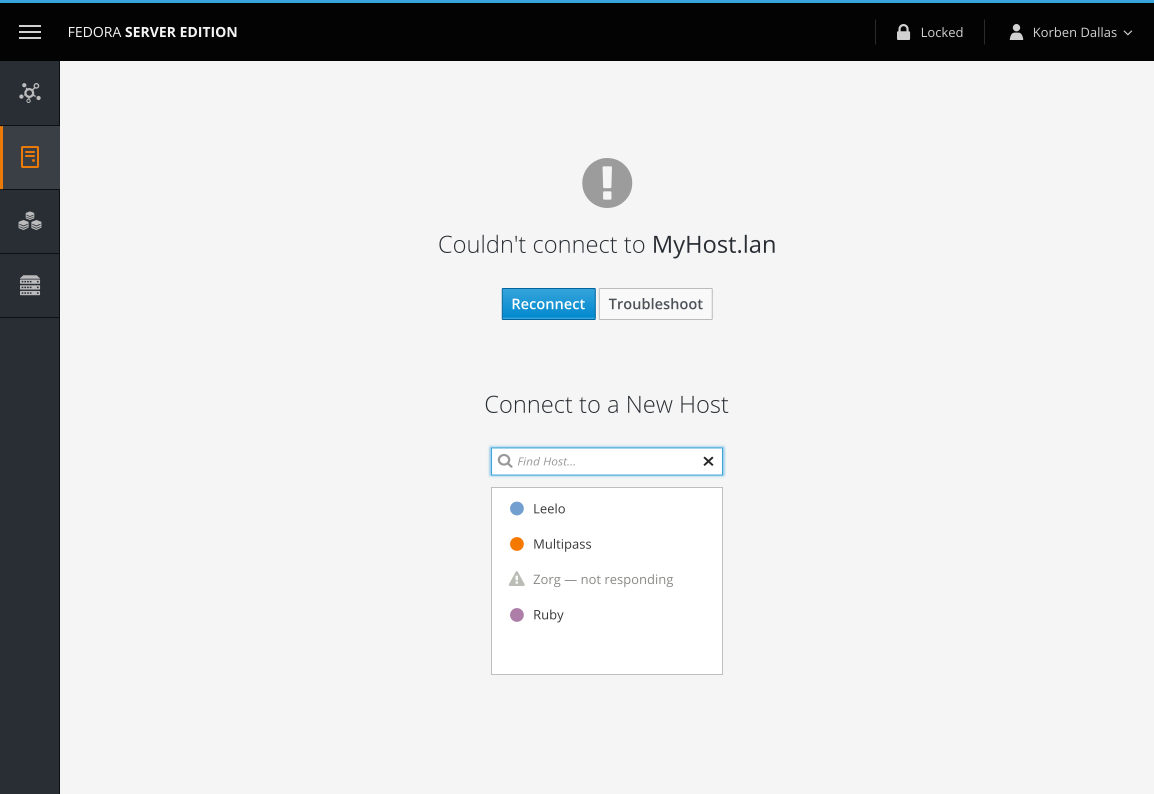
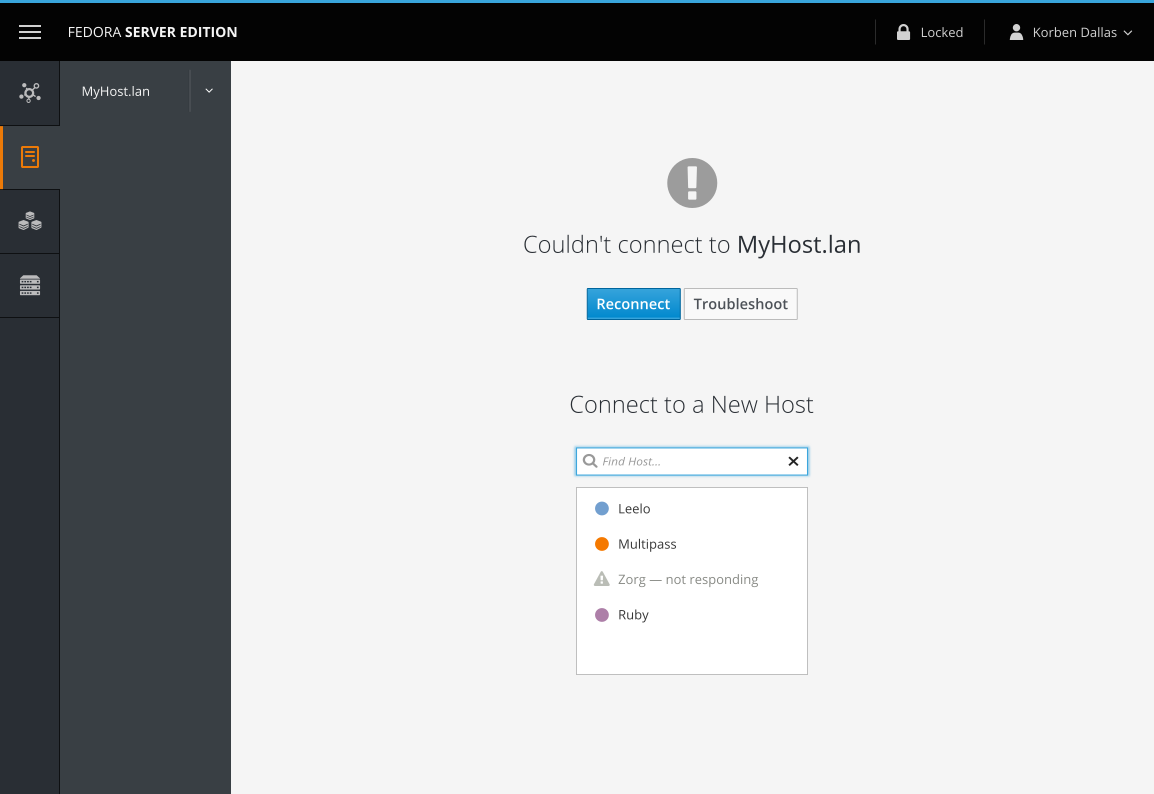
added variant with and without sidebar for inline example

diff --git a/navigation/sidebar/double/disconnected/README.md b/navigation/sidebar/double/disconnected/README.md
@@ -20,6 +20,10 @@
 
 ![sidebar-double-host-disconnected-inline](sidebar-double-host-disconnected-inline.png)
 
+## Display inline in the page... with no sidebar?
+
+![sidebar-double-host-disconnected-inline-nosidebar](sidebar-double-host-disconnected-inline-nosidebar.png)
+
 ## Embedded in the sidebar?
 
 ![sidebar-double-host-disconnected-embedded](sidebar-double-host-disconnected-embedded.png)
